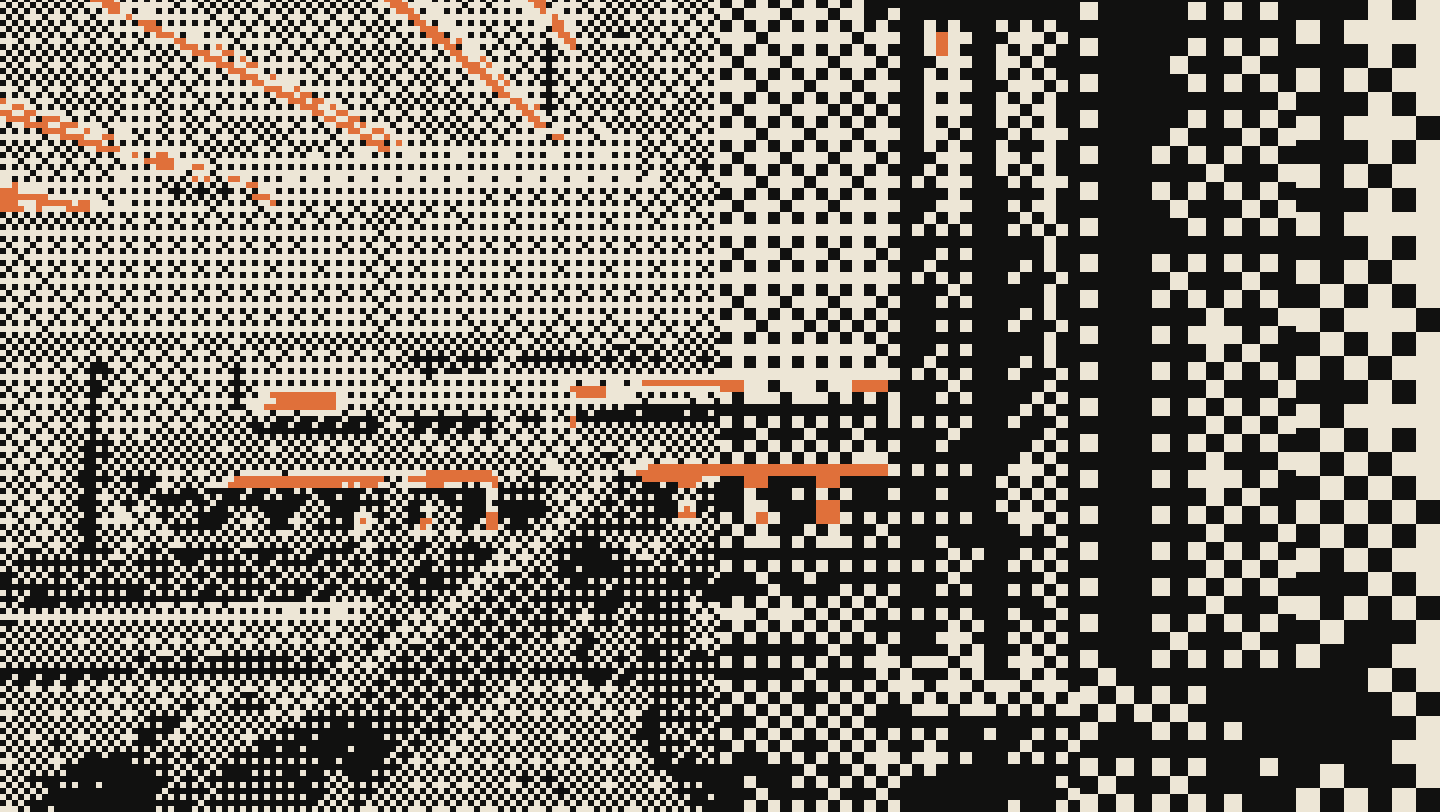
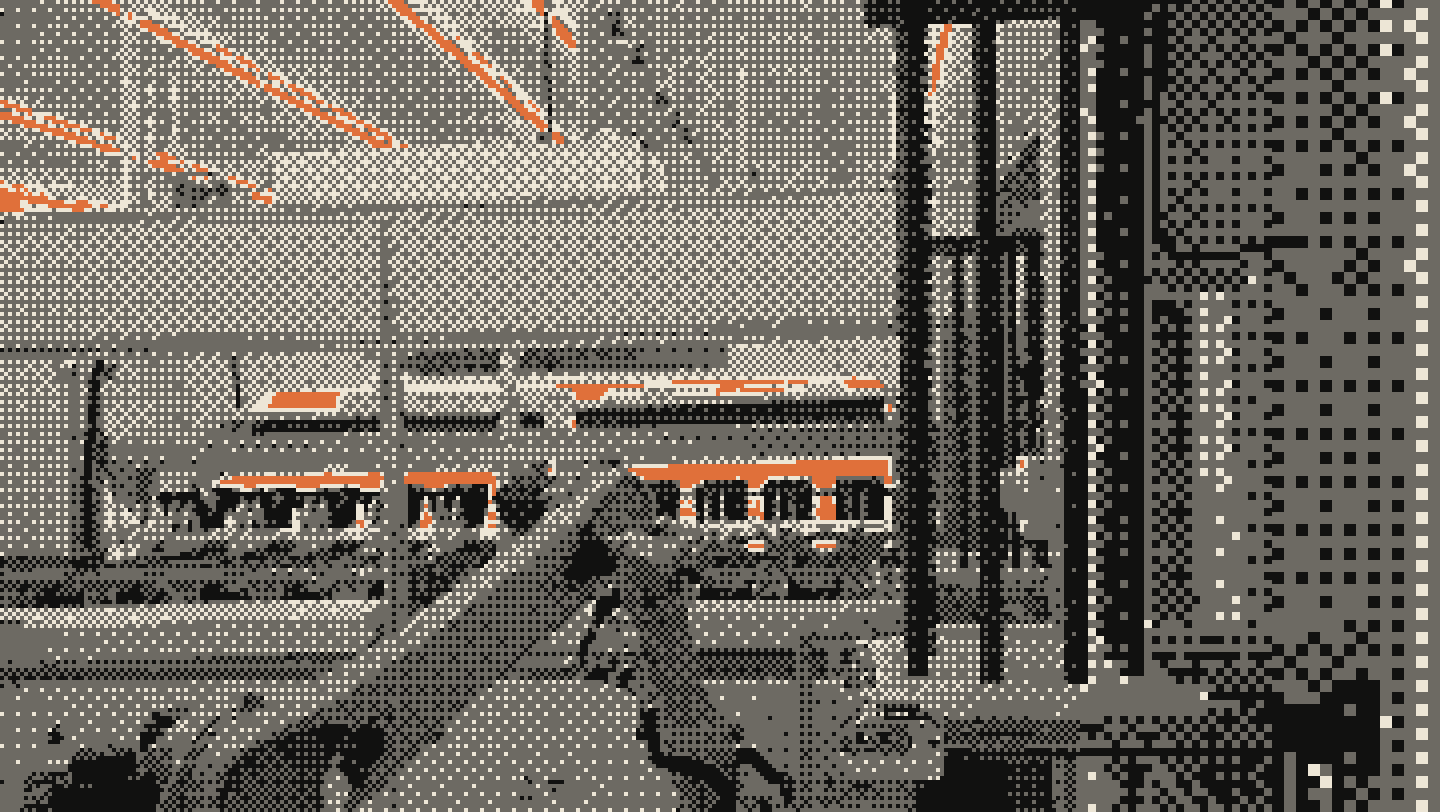
Landing motion: finer pixels, sharpening and a mid tone for clearer footage

diff --git a/src/lib/motion/pixel-renderer.js b/src/lib/motion/pixel-renderer.js
@@ -4,13 +4,15 @@ import {pixelBands} from './pixel-bands.js';
 // Ordered-dither "pixel field": two tones plus an accent for the brightest
 // highlights, with blocks that coarsen in bands toward one edge.
 // levels = [black point, white point, gamma, accent threshold] on source luma.
+// detail = [sharpen amount, tone count (2 or 3)]; a third, mid tone keeps footage legible.
 const FRAGMENT = `
 precision mediump float;
 varying vec2 uv;
 uniform sampler2D source;
 uniform vec2 size, cropMin, cropMax;
-uniform vec3 lo, hi, accent;
+uniform vec3 lo, mid, hi, accent;
 uniform vec4 tone;
+uniform vec2 detail;
 uniform vec4 blocksA, blocksB, edgesA;
 uniform vec3 edgesB;
 uniform float direction;
@@ -18,6 +20,7 @@ float luma(vec3 c){return dot(c,vec3(.299,.587,.114));}
 float bayer2(vec2 a){a=floor(a);return fract(a.x/2.+a.y*a.y*.75);}
 float bayer4(vec2 a){return bayer2(.5*a)*.25+bayer2(a);}
 float bayer8(vec2 a){return bayer4(.5*a)*.25+bayer2(a);}
+float sampleL(vec2 p){return luma(texture2D(source,mix(cropMin,cropMax,clamp(p,0.,1.))).rgb);}
 void main(){
  float x=direction>.5?size.x-gl_FragCoord.x:gl_FragCoord.x;
  float block=blocksA.x;
@@ -32,9 +35,17 @@ void main(){
  vec2 local=(cell+.5)*block;
  if(direction>.5)local.x=size.x-local.x;
  vec2 centre=local/size;
- float raw=luma(texture2D(source,mix(cropMin,cropMax,clamp(centre,0.,1.))).rgb);
- float level=pow(clamp((raw-tone.x)/max(.01,tone.y-tone.x),0.,1.),tone.z);
- vec3 color=level>bayer8(cell)?hi:lo;
+ vec2 off=vec2(block)/size;
+ float raw=sampleL(centre);
+ float around=.25*(sampleL(centre+vec2(off.x,0.))+sampleL(centre-vec2(off.x,0.))+sampleL(centre+vec2(0.,off.y))+sampleL(centre-vec2(0.,off.y)));
+ float sharp=clamp(raw+detail.x*(raw-around),0.,1.);
+ float level=pow(clamp((sharp-tone.x)/max(.01,tone.y-tone.x),0.,1.),tone.z);
+ float t=bayer8(cell);
+ vec3 color=level>t?hi:lo;
+ if(detail.y>2.5){
+  float v=level*2.,f=floor(v),idx=min(2.,f+(v-f>t?1.:0.));
+  color=idx<.5?lo:idx<1.5?mid:hi;
+ }
  if(raw>tone.w)color=accent;
  gl_FragColor=vec4(color,1.);
 }`;
@@ -46,7 +57,7 @@ export class PixelRenderer extends AsciiRenderer {
     super({...options,settings:{...options.settings,fragmentShader:FRAGMENT}});
     this.colors={...FALLBACK,...(options.settings.colors||{})};
     if(!this.gl||this.failed)return;
-    for(const name of ['lo','hi','accent','tone','blocksA','blocksB','edgesA','edgesB','direction'])
+    for(const name of ['lo','mid','hi','accent','tone','detail','blocksA','blocksB','edgesA','edgesB','direction'])
       this.uniforms[name]=this.gl.getUniformLocation(this.program,name);
   }
 
@@ -60,7 +71,7 @@ export class PixelRenderer extends AsciiRenderer {
     const gl=this.gl,u=this.uniforms,s=this.settings;
     if(!u.lo)return super.draw(time);
     const cssWidth=this.canvas.clientWidth||this.canvas.width;
-    const {blocks,edges}=pixelBands(this.canvas.width,Math.max(1,(this.canvas.width/cssWidth)*(s.pixelSize||3)));
+    const {blocks,edges}=pixelBands(this.canvas.width,Math.max(1,(this.canvas.width/cssWidth)*(s.pixelSize||3)),s.scales);
     gl.uniform4f(u.blocksA,blocks[0],blocks[1],blocks[2],blocks[3]);
     gl.uniform4f(u.blocksB,blocks[4],blocks[5],blocks[6],blocks[7]);
     gl.uniform4f(u.edgesA,edges[0],edges[1],edges[2],edges[3]);
@@ -68,10 +79,11 @@ export class PixelRenderer extends AsciiRenderer {
     gl.uniform1f(u.direction,s.coarsen==='left'?1:0);
     const [black,white,gamma,highlight]=s.levels||[.04,.9,1,.93];
     gl.uniform4f(u.tone,black,white,gamma,highlight);
-    for(const name of ['lo','hi','accent']){
-      const [r,g,b]=(this.colors||FALLBACK)[name];
+    gl.uniform2f(u.detail,s.sharpen??0,s.tones??2);
+    const c=this.colors||FALLBACK;
+    const mid=c.lo.map((v,i)=>v+(c.hi[i]-v)*.42);
+    for(const [name,[r,g,b]] of [['lo',c.lo],['mid',mid],['hi',c.hi],['accent',c.accent]])
       gl.uniform3f(u[name],r/255,g/255,b/255);
-    }
     super.draw(time);
   }
 }

diff --git a/src/components/FieldOfTouch.tsx b/src/components/FieldOfTouch.tsx
@@ -1,4 +1,5 @@
 import { useEffect, useRef, useState } from 'react';
+import { MOTION_SCALES } from '../lib/motion/pixel-bands';
 import { onThemeChange, readPixelColors } from '../lib/motion/pixel-colors';
 import './field-of-touch.css';
 
@@ -130,7 +131,7 @@ export function FieldOfTouch({ scene, priority = false, look = 'field' }: { scen
       ? import('../lib/motion/pixel-renderer.js').then(({ PixelRenderer }) => (target: HTMLCanvasElement, source: HTMLVideoElement): MotionRenderer => {
         const pixel = new PixelRenderer({
           canvas: target, video: source, poster,
-          settings: { cellSize: 6, pixelSize: 3, levels: study.pixelLevels, colors: figure.current ? readPixelColors(figure.current) : undefined },
+          settings: { cellSize: 6, pixelSize: 2, scales: MOTION_SCALES, sharpen: 0.8, tones: 3, levels: study.pixelLevels, colors: figure.current ? readPixelColors(figure.current) : undefined },
           onStatus,
         });
         stopThemeWatch = onThemeChange(() => { if (figure.current) pixel.setColors(readPixelColors(figure.current)); });

diff --git a/src/lib/motion/pixel-renderer.d.ts b/src/lib/motion/pixel-renderer.d.ts
@@ -15,6 +15,12 @@ export class PixelRenderer {
       cellSize: number;
       pixelSize?: number;
       coarsen?: 'left' | 'right';
+      /** Block-size multipliers for the eight bands (see pixel-bands.js). */
+      scales?: readonly number[];
+      /** Local-contrast boost before dithering (0 = off). */
+      sharpen?: number;
+      /** 2 = two-tone; 3 adds a mid tone for clearer footage. */
+      tones?: 2 | 3;
       /** [black point, white point, gamma, accent threshold] on source luma (0 to 1). */
       levels?: readonly [number, number, number, number];
       colors?: Partial<PixelColors>;

diff --git a/src/lib/motion/pixel-bands.js b/src/lib/motion/pixel-bands.js
@@ -3,6 +3,8 @@
 // two neighbouring block sizes so no partial cells (thin slivers) appear at seams.
 // Whole-number multiples of one base block keep every seam aligned.
 export const PIXEL_SCALES = [1, 1, 1, 1, 2, 2, 3, 4];
+// Motion keeps fine blocks across most of the frame so the footage stays readable.
+export const MOTION_SCALES = [1, 1, 1, 1, 1, 1, 2, 3];
 
 const gcd = (a, b) => (b ? gcd(b, a % b) : a);
 const lcm = (a, b) => (a * b) / gcd(a, b);

diff --git a/src/lib/motion/pixel-bands.d.ts b/src/lib/motion/pixel-bands.d.ts
@@ -1,4 +1,5 @@
 export const PIXEL_SCALES: readonly number[];
+export const MOTION_SCALES: readonly number[];
 export interface PixelBandLayout { blocks: number[]; edges: number[] }
 export function pixelBands(width: number, base: number, scales?: readonly number[]): PixelBandLayout;
 export function blockAt(x: number, layout: PixelBandLayout): number;
